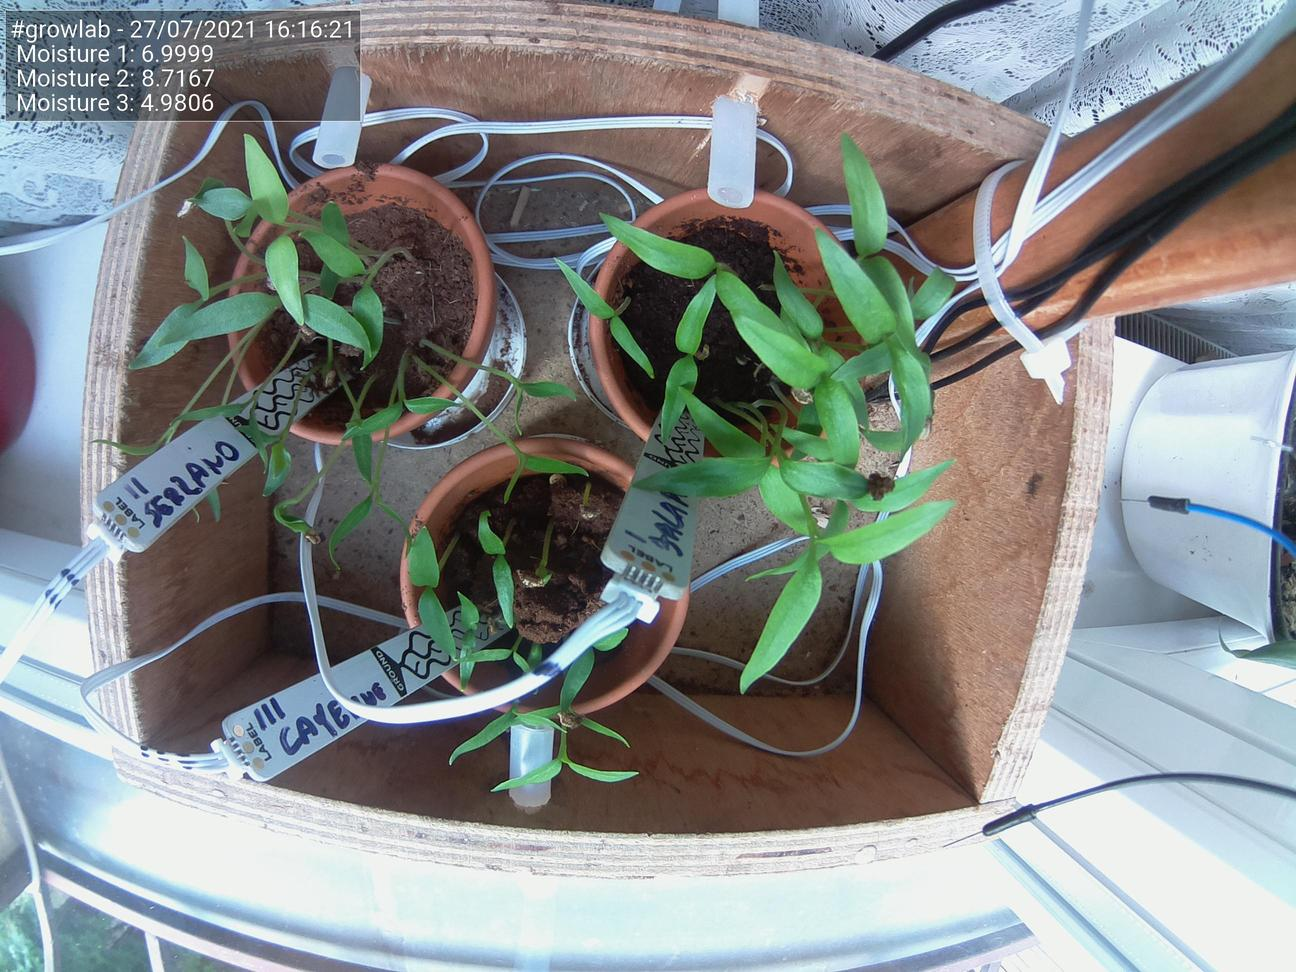
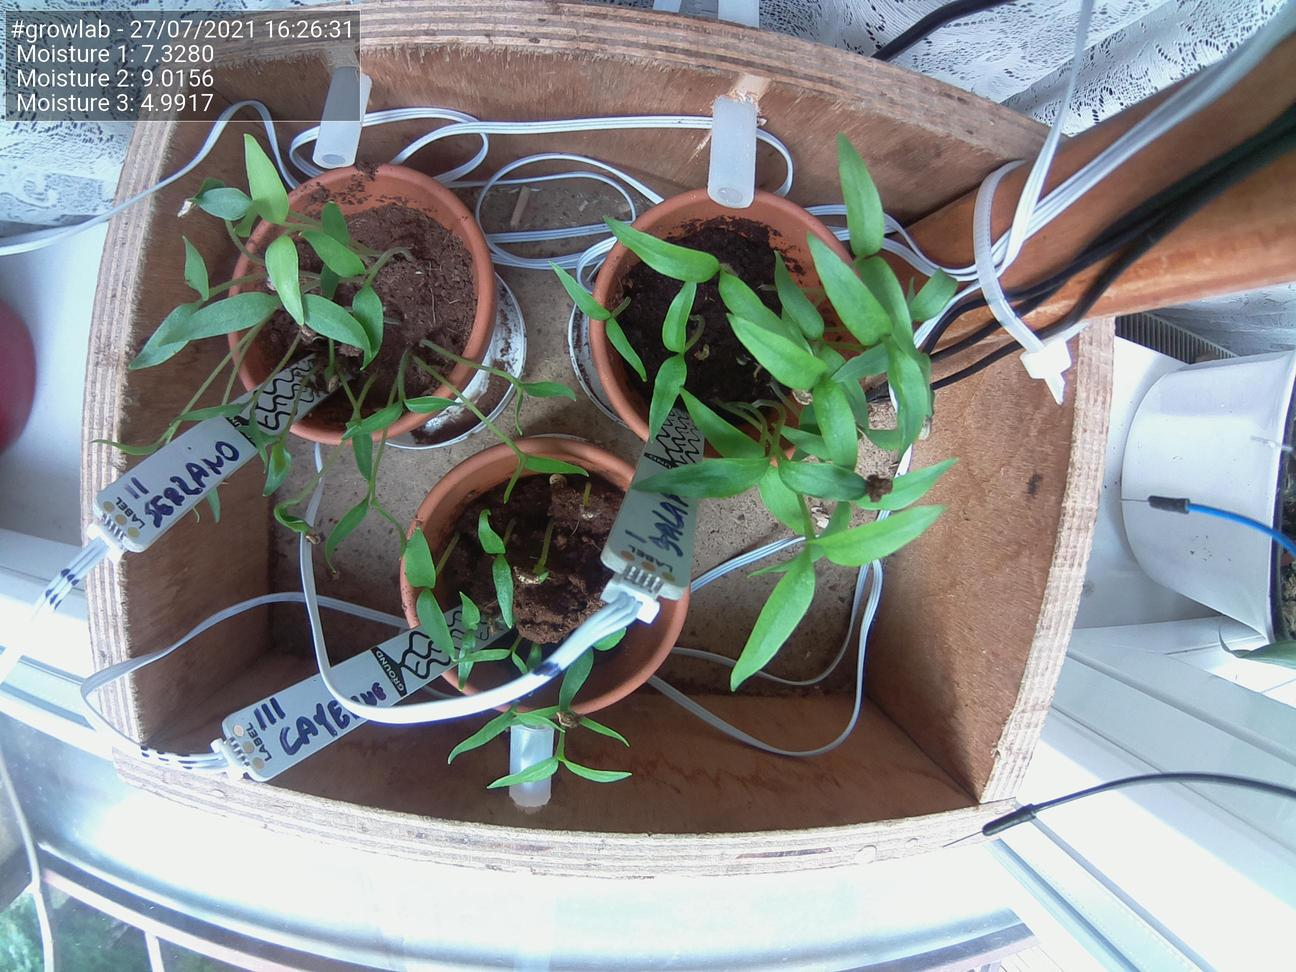
Update images at Tue 27 Jul 16:26:37 BST 2021

diff --git a/docs/index.html b/docs/index.html
@@ -51,25 +51,25 @@
                                 <td>Date</td>
                                 <td>27/07/2021</td>
                                 <td>Time</td>
-                                <td>16:16:21</td>
+                                <td>16:26:31</td>
                             </tr>
                             <tr>
                                 <td>Temperature</td>
                                 <td>N/A</td>
                                 <td>Moisture 1</td>
-                                <td>6.9999</td>
+                                <td>7.3280</td>
                             </tr>
                             <tr>
                                 <td>Humidity</td>
                                 <td>N/A</td>
                                 <td>Moisture 2</td>
-                                <td>8.7167</td>
+                                <td>9.0156</td>
                             </tr>
                             <tr>
                                 <td>Pressure</td>
                                 <td>N/A</td>
                                 <td>Moisture 3</td>
-                                <td>4.9806</td>
+                                <td>4.9917</td>
                             </tr>
                         </tbody>
                     </table>
@@ -77,7 +77,7 @@
 
                 <h5>Latest image</h5>
                 <div style="width: 85%;">
-                            <img class="figure-img img-fluid rounded" src="./preview.jpg?uid=1627398986.8746188">
+                            <img class="figure-img img-fluid rounded" src="./preview.jpg?uid=1627399597.393049">
                 </div>
             </div>
         </div>
